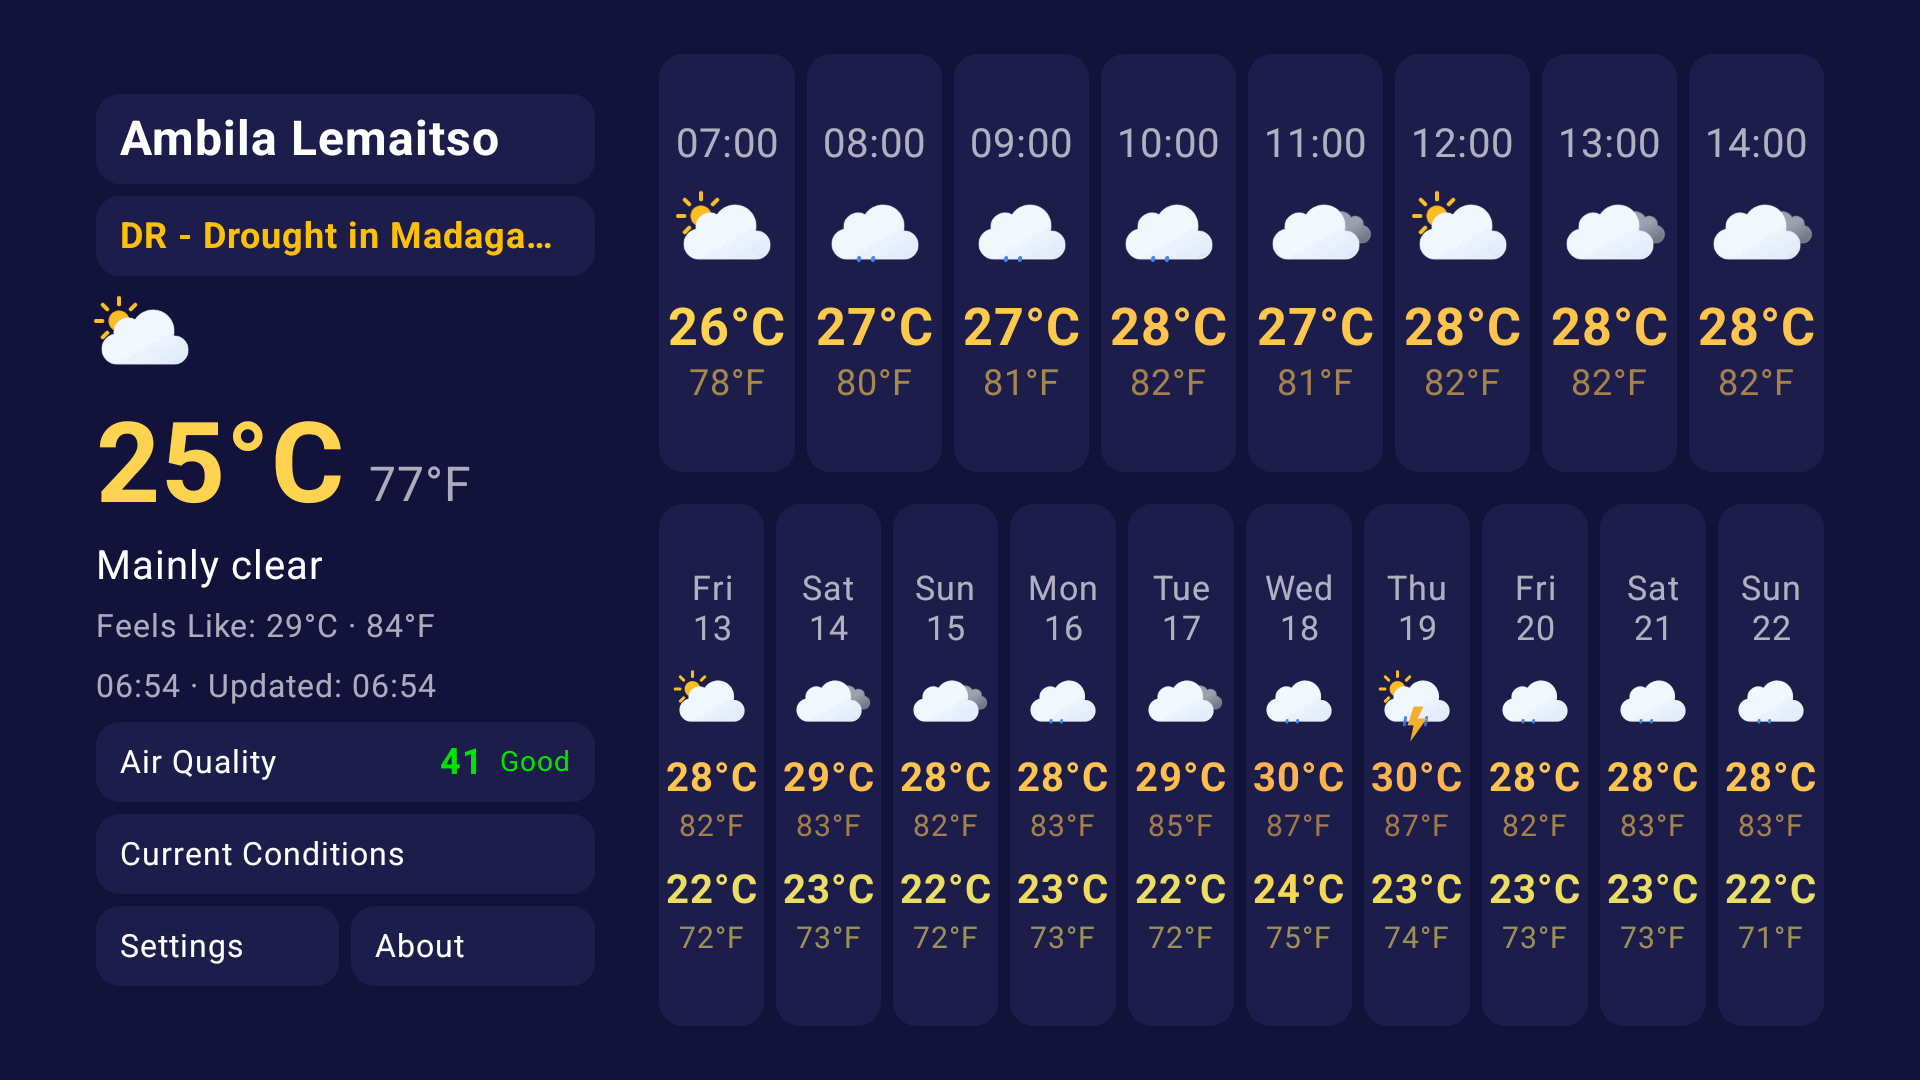
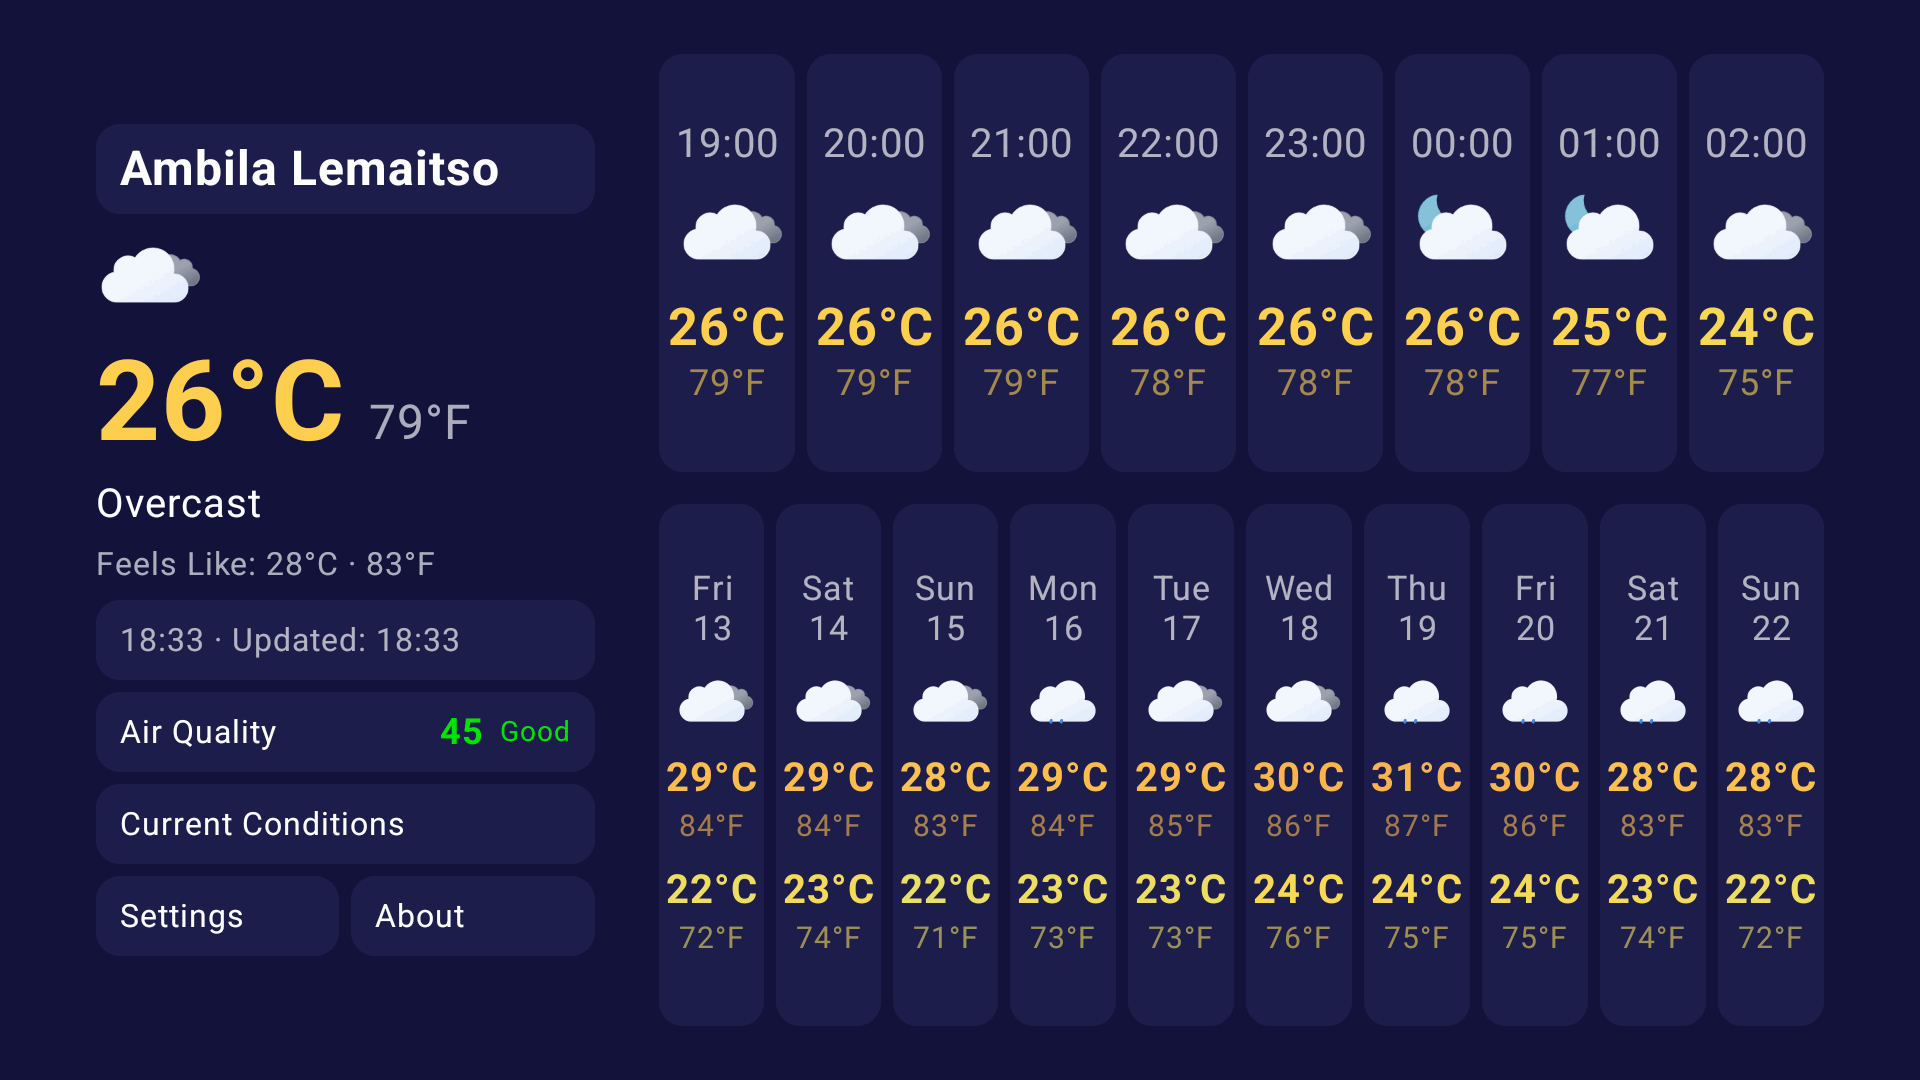
New TV store screenshots: the home screen, the chart and the new Current Conditions screen
All 3 are taken at Ambila Lemaitso at the same time. The chart is at 12:00: OK on the first hour card, then Right until 12:00 shows.

diff --git a/docs/SCREENSHOTS_README.md b/docs/SCREENSHOTS_README.md
@@ -30,7 +30,7 @@ On screens 2, 4 and 5, the card title is just below the folded header.
 TV:
 
 1. Home screen
-2. Chart, opened with OK on the 12:00 hour card
+2. Chart at 12:00: OK on the first hour card, then Right until 12:00 shows
 3. Current conditions
 
 ## Method
